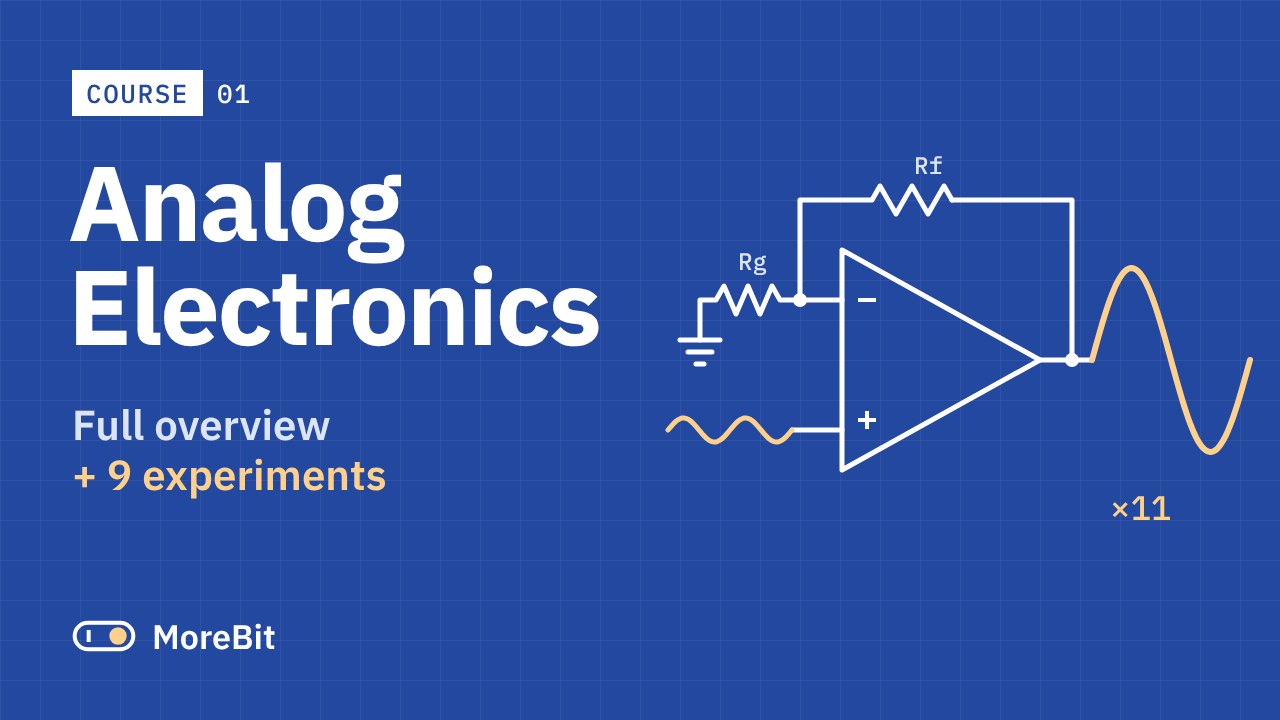
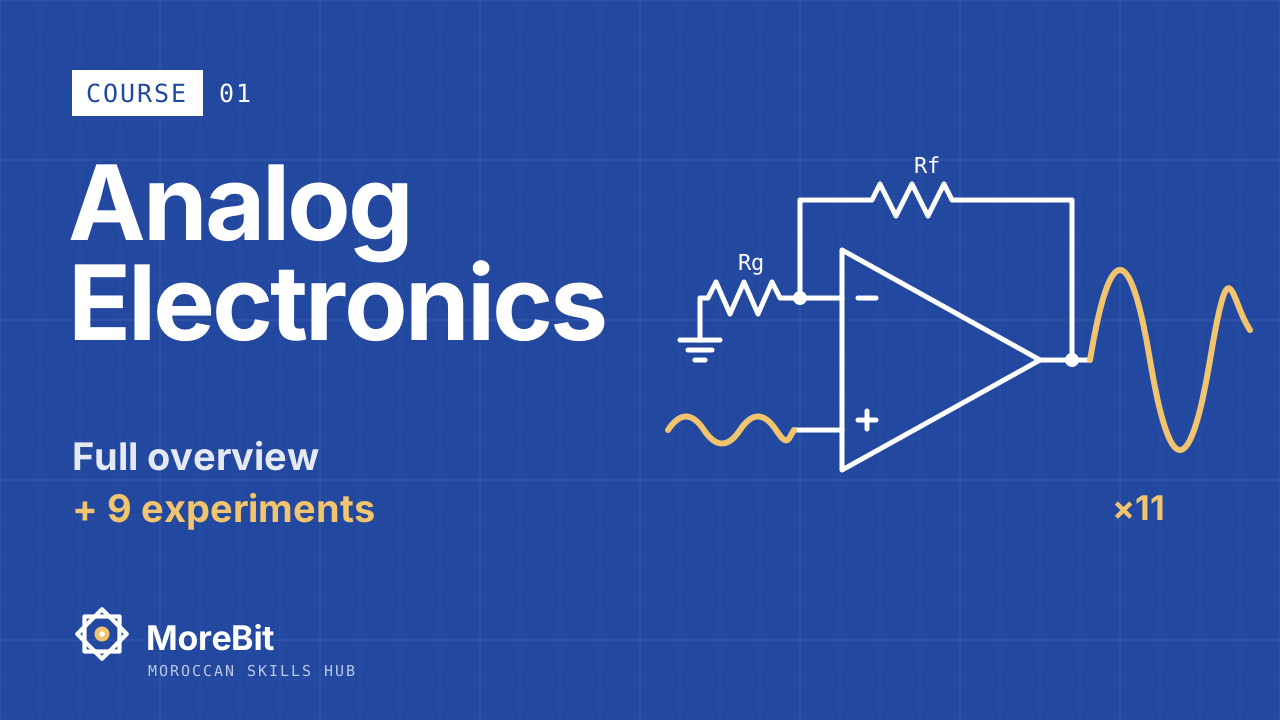
Add files via upload

diff --git a/assets/app.js b/assets/app.js
@@ -12,11 +12,11 @@ const PLAY=`<svg viewBox="0 0 24 24" fill="none" aria-hidden="true"><path d="M8 
 let VIDS=[],filter="all",density="comfortable",query="",openGroups=new Set();
 function bar(){const b=(k,label)=>`<button type="button" data-filter="${k}" aria-pressed="${filter===k}">${k==="all"?"":`<span class="dot ${k}"></span>`}${esc(label)}</button>`;return `<div class="bar" role="group" aria-label="Filter content">${b("all","All material")}${Object.keys(KINDS).map(k=>b(k,KINDS[k])).join("")}</div>`}
 function card(v){const media=v.thumbnail?`<img src="${esc(v.thumbnail)}" alt="" loading="lazy">`:USE_YOUTUBE_THUMBS&&v.youtubeId?`<img src="https://i.ytimg.com/vi/${esc(v.youtubeId)}/hqdefault.jpg" alt="" loading="lazy">`:`<span class="ph ${v.kind}">${PLAY}</span>`;
-return `<article class="card"><a class="thumb" href="${esc(watch(v))}" target="_blank" rel="noopener" aria-label="Watch ${esc(v.title)}">${media}<span class="dur">${esc(v.duration||"PLAY")}</span></a><div class="card-body"><div class="card-kicker">${esc(KINDS[v.kind]||"MoreBit lab")} · ${esc(fmt(v.date))}</div><h2><a href="${esc(watch(v))}" target="_blank" rel="noopener">${esc(v.title)}</a></h2>${v.description?`<p class="card-desc">${esc(v.description)}</p>`:""}<div class="meta"><span class="dot ${v.kind}"></span><span>${esc(KINDS[v.kind])}</span><span class="sp"></span>${res(v).length?`<a href="#r-${esc(v.slug)}">${res(v).length} resources ↗</a>`:""}</div></div></article>`}
-function contentPage(){const shown=VIDS.filter(v=>filter==="all"||v.kind===filter);return `<section class="hero"><div class="wrap hero-in"><div><div class="eyebrow">An independent mechatronics lab</div><h1>Make ideas<br>work in the <em>real world.</em></h1><p class="hero-copy">Electronics, mechanisms and code—explained through practical experiments, clear notes and files you can build on.</p><div class="hero-bottom"><a class="primary-link" href="#resources">Explore the resource library <span>↗</span></a><span class="hero-note">LEARN · BUILD · ITERATE</span></div></div><aside class="hero-side"><div class="big">${String(VIDS.length).padStart(2,"0")}</div><p>field notes, experiments and learning paths. Open-source spirit, hands-on first.</p></aside></div></section><section class="wrap section"><div class="section-head"><div><div class="eyebrow" style="color:var(--muted)">The collection</div><h2>Explore the lab</h2></div><p>Useful knowledge. No unnecessary noise.</p></div>${bar()}${shown.length?`<div class="grid">${shown.map(card).join("")}</div>`:`<p class="empty">No videos in this category yet.</p>`}</section>`}
-function group(v,i){const rs=res(v),isOpen=openGroups.has(v.slug);return `<section class="group" id="r-${esc(v.slug)}" data-open="${isOpen}" data-slug="${esc(v.slug)}"><div class="g-head"><div class="g-main"><button class="g-toggle" type="button" data-toggle="${esc(v.slug)}" aria-expanded="${isOpen}" aria-label="${isOpen?"Collapse":"Expand"} ${esc(v.title)}"><span class="chevron">›</span></button><div class="g-title-wrap"><div class="k"><span class="dot ${v.kind}"></span>${esc(KINDS[v.kind]||"Resources")} · <span>${esc(fmt(v.date))}</span></div><h2>${esc(v.title)}</h2><div class="g-meta"><span class="count">${String(rs.length).padStart(2,"0")} FILES</span><span>Course materials</span></div></div></div><div class="g-actions"><a href="${esc(watch(v))}" target="_blank" rel="noopener">Watch lesson ↗</a></div></div><ul class="files">${rs.map(r=>`<li><a href="${esc(r.href)}" target="_blank" rel="noopener"><span class="tag">${esc(tag(r))}</span><span><span class="fn">${esc(r.label)}</span><span class="fd">${esc(r.note||host(r.href))}</span></span><span class="go">Open ↗</span></a></li>`).join("")}</ul></section>`}
+return `<article class="card ${esc(v.kind)}"><a class="thumb" href="${esc(watch(v))}" target="_blank" rel="noopener" aria-label="Watch ${esc(v.title)}">${media}<span class="dur">${esc(v.duration||"PLAY")}</span></a><div class="card-body"><div class="card-kicker">${esc(KINDS[v.kind]||"MoreBit lab")} · ${esc(fmt(v.date))}</div><h2><a href="${esc(watch(v))}" target="_blank" rel="noopener">${esc(v.title)}</a></h2>${v.description?`<p class="card-desc">${esc(v.description)}</p>`:""}<div class="meta"><span class="dot ${v.kind}"></span><span>${esc(KINDS[v.kind])}</span><span class="sp"></span>${res(v).length?`<a href="#r-${esc(v.slug)}">${res(v).length} ${res(v).length===1?"resource":"resources"} ↗</a>`:""}</div></div></article>`}
+function contentPage(){const shown=VIDS.filter(v=>filter==="all"||v.kind===filter);return `<section class="hero"><div class="wrap hero-in"><div><div class="eyebrow">An independent Moroccan skills hub</div><h1>Make ideas<br>work in the <em>real world.</em></h1><p class="hero-copy">Electronics, mechanisms and code—explained through practical experiments, clear notes and files you can build on.</p><div class="hero-bottom"><a class="primary-link" href="#resources">Explore the resource library <span>↗</span></a><span class="hero-note">LEARN · BUILD · ITERATE</span></div></div><aside class="hero-side"><div class="big">${String(VIDS.length).padStart(2,"0")}</div><p>field notes, experiments and learning paths. Open-source spirit, hands-on first.</p></aside></div></section><section class="wrap section"><div class="section-head"><div><div class="eyebrow" style="color:var(--muted)">The collection</div><h2>Explore the lab</h2></div><p>Useful knowledge. No unnecessary noise.</p></div>${bar()}${shown.length?`<div class="grid">${shown.map(card).join("")}</div>`:`<p class="empty">No videos in this category yet.</p>`}</section>`}
+function group(v,i){const rs=res(v),isOpen=openGroups.has(v.slug);return `<section class="group ${esc(v.kind)}" id="r-${esc(v.slug)}" data-open="${isOpen}" data-slug="${esc(v.slug)}"><div class="g-head"><div class="g-main"><button class="g-toggle" type="button" data-toggle="${esc(v.slug)}" aria-expanded="${isOpen}" aria-label="${isOpen?"Collapse":"Expand"} ${esc(v.title)}"><span class="chevron">›</span></button><div class="g-title-wrap"><div class="k"><span class="dot ${v.kind}"></span>${esc(KINDS[v.kind]||"Resources")} · <span>${esc(fmt(v.date))}</span></div><h2>${esc(v.title)}</h2><div class="g-meta"><span class="count">${String(rs.length).padStart(2,"0")} FILES</span><span>${v.kind==="course"?"Course materials":"Project files"}</span></div></div></div><div class="g-actions"><a href="${esc(watch(v))}" target="_blank" rel="noopener">Watch lesson ↗</a></div></div><ul class="files">${rs.map(r=>`<li><a href="${esc(r.href)}" target="_blank" rel="noopener"><span class="tag">${esc(tag(r))}</span><span><span class="fn">${esc(r.label)}</span><span class="fd">${esc(r.note||host(r.href))}</span></span><span class="go">Open ↗</span></a></li>`).join("")}</ul></section>`}
 function resourcesPage(){const all=VIDS.filter(v=>res(v).length),filtered=all.filter(v=>(filter==="all"||v.kind===filter)&&`${v.title} ${KINDS[v.kind]} ${res(v).map(r=>`${r.label} ${r.note||""}`).join(" ")}`.toLowerCase().includes(query.toLowerCase()));const count=filtered.reduce((n,v)=>n+res(v).length,0);return `<section class="library-hero"><div class="wrap library-hero-in"><div><div class="eyebrow">The MoreBit workbench</div><h1>Tools for the<br><em>next experiment.</em></h1><p>Project files, simulation models and build notes—kept together, easy to scan, ready to use.</p></div><div class="library-stat"><strong>${String(count).padStart(2,"0")}</strong><span>resources across ${filtered.length} ${filtered.length===1?"project":"projects"}</span></div></div></section><section class="wrap"><div class="resource-tools"><label class="search-wrap"><input id="resource-search" type="search" value="${esc(query)}" placeholder="Search projects or files…" aria-label="Search projects or files"></label><div class="view-toggle" role="group" aria-label="Resource density"><button type="button" data-density="comfortable" aria-pressed="${density==="comfortable"}">Comfort</button><button type="button" data-density="compact" aria-pressed="${density==="compact"}">Compact</button></div><button class="tool-btn" type="button" data-expand="all">Expand all</button><button class="tool-btn" type="button" data-expand="none">Collapse all</button></div>${bar()}<div class="results-line"><span><strong>${filtered.length}</strong> ${filtered.length===1?"project":"projects"} · <strong>${count}</strong> ${count===1?"item":"items"}</span><span>Choose how much detail you want to see.</span></div><div class="res ${density==="compact"?"density-compact":""}">${filtered.length?filtered.map(group).join(""):`<p class="empty">No matching resources. Try another search or category.</p>`}</div></section>`}
-function route(){const h=location.hash.slice(1),onRes=h==="resources"||h.startsWith("r-");if(h.startsWith("r-")){filter="all";query="";const targetVideo=VIDS.find(v=>`r-${v.slug}`===h);if(targetVideo)openGroups.add(targetVideo.slug)}$("#app").innerHTML=onRes?resourcesPage():contentPage();document.querySelectorAll("[data-nav]").forEach(a=>(a.dataset.nav===(onRes?"resources":"content"))?a.setAttribute("aria-current","page"):a.removeAttribute("aria-current"));document.title=onRes?"Resources · MoreBit":"MoreBit — Learn, build, iterate";if(onRes){const search=$("#resource-search");if(search)search.addEventListener("input",e=>{query=e.target.value;renderResourcesPreservingFocus(e.target.selectionStart)})}const target=h.startsWith("r-")&&document.getElementById(h);if(target){target.scrollIntoView({block:"start"});target.classList.add("flash")}else window.scrollTo(0,0)}
+function route(){const h=location.hash.slice(1),onRes=h==="resources"||h.startsWith("r-");if(h.startsWith("r-")){filter="all";query="";const targetVideo=VIDS.find(v=>`r-${v.slug}`===h);if(targetVideo)openGroups.add(targetVideo.slug)}$("#app").innerHTML=onRes?resourcesPage():contentPage();document.querySelectorAll("[data-nav]").forEach(a=>(a.dataset.nav===(onRes?"resources":"content"))?a.setAttribute("aria-current","page"):a.removeAttribute("aria-current"));document.title=onRes?"Resources · MoreBit":"MoreBit — Moroccan Skills Hub";if(onRes){const search=$("#resource-search");if(search)search.addEventListener("input",e=>{query=e.target.value;renderResourcesPreservingFocus(e.target.selectionStart)})}const target=h.startsWith("r-")&&document.getElementById(h);if(target){target.scrollIntoView({block:"start"});target.classList.add("flash")}else window.scrollTo(0,0)}
 function renderResourcesPreservingFocus(pos){const el=$("#resource-search");const start=pos??el?.selectionStart??0;$("#app").innerHTML=resourcesPage();const next=$("#resource-search");next?.focus();next?.setSelectionRange(start,start)}
 $("#app").addEventListener("click",e=>{const b=e.target.closest("button");if(!b)return;if(b.dataset.filter){filter=b.dataset.filter;if(location.hash.slice(1)==="resources"||location.hash.startsWith("#r-"))renderResourcesPreservingFocus();else $("#app").innerHTML=contentPage();return}if(b.dataset.density){density=b.dataset.density;const current=$("#resource-search")?.value??query;query=current;renderResourcesPreservingFocus();return}if(b.dataset.toggle){const slug=b.dataset.toggle;openGroups.has(slug)?openGroups.delete(slug):openGroups.add(slug);const groupEl=b.closest(".group");groupEl.dataset.open=String(openGroups.has(slug));b.setAttribute("aria-expanded",String(openGroups.has(slug)));b.setAttribute("aria-label",`${openGroups.has(slug)?"Collapse":"Expand"} ${groupEl.querySelector("h2").textContent}`);b.innerHTML='<span class="chevron">›</span>';return}if(b.dataset.expand){const all=VIDS.filter(v=>res(v).length&&(filter==="all"||v.kind===filter)&&`${v.title} ${KINDS[v.kind]} ${res(v).map(r=>`${r.label} ${r.note||""}`).join(" ")}`.toLowerCase().includes(query.toLowerCase()));openGroups=new Set(b.dataset.expand==="all"?all.map(v=>v.slug):[]);renderResourcesPreservingFocus();return}});
 document.querySelectorAll("[data-link]").forEach(a=>{a.href=LINKS[a.dataset.link]||"#"});$("#yr").textContent=new Date().getFullYear();getVideos().then(v=>{VIDS=v;const first=VIDS.find(v=>res(v).length);if(first)openGroups.add(first.slug);window.addEventListener("hashchange",route);route()});

diff --git a/assets/style.css b/assets/style.css
@@ -165,3 +165,105 @@ footer{box-shadow:none}
 @media(prefers-reduced-motion:reduce){
  *,*::before,*::after{scroll-behavior:auto!important;transition:none!important;animation:none!important}
 }
+
+
+/* ───────── Refinement: Moroccan Skills Hub ─────────
+   Section colors · half-size cards · compact resources · calmer headings */
+:root{
+ --course:#2348A0;   /* Majorelle blue  — Courses */
+ --topic:#B5522F;    /* Terracotta      — General Topics */
+ --tips:#17785B;     /* Zellige green   — Tools & Tips */
+ --course-soft:#e8edf8;--topic-soft:#f8ebe5;--tips-soft:#e3f2ec;
+ --saffron:#F2C46D;--dark:#1B2420;
+}
+
+/* Brand */
+.brand .logo{width:30px;height:30px;color:var(--ink)}
+.brand span{display:flex;flex-direction:column;line-height:1.05}
+.brand small{font:500 .6rem var(--mono);letter-spacing:.08em;text-transform:uppercase;color:var(--muted);margin-top:3px}
+.top-in{height:64px}
+.foot-brand{display:inline-flex;align-items:center;gap:9px}
+.foot-brand img{border-radius:4px}
+
+/* Calmer heroes — the statement stays, the shouting goes */
+.hero-in{padding-block:clamp(34px,4.5vw,56px) clamp(30px,3.5vw,44px);gap:32px}
+.hero h1{font-size:clamp(1.9rem,3.6vw,3.1rem);line-height:1.06;letter-spacing:-.035em;margin:14px 0}
+.hero-copy{font-size:1rem}
+.hero-bottom{margin-top:22px}
+.primary-link{padding:10px 14px;font-size:.85rem}
+.hero-side .big{font-size:clamp(1.8rem,2.6vw,2.4rem)}
+.library-hero{padding-block:clamp(28px,3.5vw,44px)}
+.library-hero h1{font-size:clamp(1.8rem,3.2vw,2.7rem);line-height:1.06;letter-spacing:-.035em;margin:12px 0 10px}
+.library-stat strong{font-size:1.9rem}
+.section{padding-top:22px}
+.section-head{margin-bottom:6px}
+.section-head h2{font-size:clamp(1.25rem,1.9vw,1.6rem);letter-spacing:-.03em}
+
+/* Section colors */
+.dot.course{background:var(--course)}.dot.topic{background:var(--topic)}.dot.tips{background:var(--tips)}
+.bar{padding-block:18px 18px}
+.bar button{min-height:34px;font-size:.84rem}
+.bar button[data-filter=course][aria-pressed=true]{background:var(--course);border-color:var(--course)}
+.bar button[data-filter=topic][aria-pressed=true]{background:var(--topic);border-color:var(--topic)}
+.bar button[data-filter=tips][aria-pressed=true]{background:var(--tips);border-color:var(--tips)}
+.bar button[aria-pressed=true] .dot{background:#fff}
+
+/* Video cards — half the previous size */
+.grid{grid-template-columns:repeat(auto-fill,minmax(210px,1fr));gap:18px 14px;padding-bottom:56px}
+.card{border-top:3px solid var(--k,var(--line))}
+.card.course{--k:var(--course)}.card.topic{--k:var(--topic)}.card.tips{--k:var(--tips)}
+.card:hover{border-color:var(--line);border-top-color:var(--k);box-shadow:0 6px 18px -12px rgba(27,36,32,.35)}
+.dur{right:7px;bottom:7px;padding:3px 6px;font-size:.62rem;background:rgba(27,36,32,.82);color:#fff}
+.ph{background:var(--k,var(--dark-2));color:#fff}
+.ph svg{width:30px;height:30px}
+.card-body{padding:11px 12px 11px}
+.card-kicker{font-size:.6rem;color:var(--k,var(--muted))}
+.card h2{font-size:.93rem;line-height:1.3;margin:5px 0 9px;letter-spacing:-.01em}
+.card-desc{display:none}
+.meta{font-size:.7rem}
+
+/* Resources — tighter, colored by section */
+.resource-tools{padding:16px 0 4px;gap:8px}
+.search-wrap input,.tool-btn{height:36px}
+.view-toggle button{height:34px}
+.results-line{padding:2px 0 12px;font-size:.78rem}
+.group{border-left:3px solid var(--k,var(--line));padding-left:12px;scroll-margin-top:76px}
+.group.course{--k:var(--course)}.group.topic{--k:var(--topic)}.group.tips{--k:var(--tips)}
+.g-head{padding:12px 0}
+.group[data-open=false] .g-head{padding-block:10px}
+.g-toggle{width:26px;height:26px;font-size:1rem}
+.group[data-open=true] .g-toggle{background:var(--k);border-color:var(--k);color:#fff}
+.g-main{gap:10px}
+.g-head h2{font-size:.98rem}
+.g-head .k{font-size:.66rem;margin-bottom:2px}
+.g-meta{font-size:.7rem}
+.g-actions a{font-size:.76rem;color:var(--k,var(--muted))}
+.files{margin:0 0 14px 36px;grid-template-columns:repeat(auto-fill,minmax(230px,1fr));gap:6px}
+.files a{min-height:46px;grid-template-columns:40px minmax(0,1fr) auto;gap:9px;padding:7px 10px}
+.files a:hover{border-color:var(--k)}
+.tag{font-size:.58rem;padding:4px 1px;color:var(--k);border-color:currentColor;background:#fff}
+.group.course .files a:hover .tag{background:var(--course-soft)}
+.group.topic .files a:hover .tag{background:var(--topic-soft)}
+.group.tips .files a:hover .tag{background:var(--tips-soft)}
+.fn{font-size:.82rem}
+.fd{font-size:.7rem;margin-top:1px}
+.go{font-size:.72rem}
+.density-compact .files{grid-template-columns:repeat(auto-fill,minmax(170px,1fr));gap:5px}
+.density-compact .files a{min-height:36px;grid-template-columns:34px minmax(0,1fr);padding:5px 8px}
+.density-compact .fn{font-size:.76rem}
+.density-compact .g-head{padding-block:9px}
+.density-compact .g-toggle{width:24px;height:24px}
+
+@media(max-width:850px){.files,.density-compact .files{grid-template-columns:repeat(auto-fill,minmax(200px,1fr))}}
+@media(max-width:580px){
+ .top-in{height:58px}.brand small{display:none}
+ .hero h1{font-size:clamp(1.7rem,8vw,2.2rem)}
+ .grid{grid-template-columns:repeat(2,minmax(0,1fr));gap:12px 10px}
+ .card{display:block}
+ .thumb{height:auto;aspect-ratio:16/9;border-right:0;border-bottom:1px solid var(--line)}
+ .card-body{padding:9px 10px}.card h2{font-size:.85rem;margin:4px 0 7px}
+ .meta .sp,.meta>span:nth-child(2){display:none}
+ .group{padding-left:10px}.g-actions{padding-left:36px}
+ .files,.density-compact .files{grid-template-columns:1fr;margin-left:0}
+ .section-head{display:block}.section-head p{display:none}
+}

diff --git a/index.html b/index.html
@@ -3,9 +3,9 @@
 <head>
 <meta charset="utf-8">
 <meta name="viewport" content="width=device-width, initial-scale=1, viewport-fit=cover">
-<title>MoreBit — Learn, build, iterate</title>
-<meta name="description" content="MoreBit is a practical mechatronics lab for electronics, mechanisms and code—with experiments, notes and project resources.">
-<meta name="theme-color" content="#172320">
+<title>MoreBit — Moroccan Skills Hub</title>
+<meta name="description" content="MoreBit is an independent Moroccan skills hub for technology: electronics, mechanisms and code, with experiments, notes and project resources.">
+<meta name="theme-color" content="#1B2420">
 <link rel="icon" href="favicon.svg" type="image/svg+xml">
 <link rel="preconnect" href="https://fonts.googleapis.com">
 <link rel="preconnect" href="https://fonts.gstatic.com" crossorigin>
@@ -16,12 +16,13 @@
 <header class="top">
   <div class="wrap top-in">
     <a class="brand" href="#content" aria-label="MoreBit, content">
-      <svg width="36" height="18" viewBox="0 0 96 48" fill="none" aria-hidden="true">
-        <rect x="4" y="4" width="88" height="40" rx="20" stroke="currentColor" stroke-width="6"/>
-        <circle cx="69" cy="24" r="13" fill="#2348A0"/>
-        <path d="M25 15V33" stroke="currentColor" stroke-width="6"/>
+      <svg class="logo" viewBox="0 0 48 48" fill="none" aria-hidden="true">
+        <path d="M10 10h28v28H10z" stroke="currentColor" stroke-width="3.2" stroke-linejoin="round"/>
+        <path d="M24 4.2 43.8 24 24 43.8 4.2 24z" stroke="currentColor" stroke-width="3.2" stroke-linejoin="round"/>
+        <circle cx="24" cy="24" r="6" fill="#2348A0"/>
+        <circle cx="24" cy="24" r="2.2" fill="#F2C46D"/>
       </svg>
-      <span>MoreBit</span>
+      <span>MoreBit<small>Moroccan Skills Hub</small></span>
     </a>
     <nav class="nav" aria-label="Main">
       <a href="#content" data-nav="content">Content</a>
@@ -44,7 +45,7 @@
 
 <footer class="foot">
   <div class="wrap foot-in">
-    <span>© <span id="yr"></span> MoreBit</span>
+    <span class="foot-brand"><img src="favicon.svg" alt="" width="20" height="20">© <span id="yr"></span> MoreBit · Independent Moroccan Skills Hub</span>
     <nav aria-label="Elsewhere"><a data-link="youtube" href="#" target="_blank" rel="noopener">YouTube</a><a data-link="github" href="#" target="_blank" rel="noopener">GitHub</a></nav>
   </div>
 </footer>

diff --git a/content.js b/content.js
@@ -1,4 +1,4 @@
-/* MoreBit — site content. This is the only file you edit.
+/* MoreBit — Independent Moroccan Skills Hub — site content. This is the only file you edit.
 
    kind: "course" (Courses), "topic" (General Topics) or "tips" (Tools & Tips)
    youtubeId: the part after watch?v= in the YouTube URL ("" = link to the channel)
@@ -30,6 +30,28 @@ const VIDEOS = [
       { label: "README.md", href: "https://github.com/morebit/analog-electronics-101#readme", note: "Course notes: theory and the 9 experiments" },
       { label: "bom.csv", href: "https://github.com/morebit/analog-electronics-101/blob/main/bom.csv", note: "Parts list" },
       { label: "spice", href: "https://github.com/morebit/analog-electronics-101/tree/main/spice", note: "LTspice simulations for experiments 2, 3, 4, 6 and 8" }
+    ]
+  },
+
+  /* ── EXAMPLES: one per section, to show each section's color. Replace or delete. ── */
+  {
+    slug: "how-chips-read-the-world", kind: "topic",
+    title: "How Chips Read the World: Sensors, ADCs and a Little Math",
+    description: "Example entry — General Topics.",
+    date: "2026-10-10", duration: "18:40", youtubeId: "",
+    thumbnail: "assets/thumbs/how-chips-read-the-world.png",
+    resources: [
+      { label: "adc-notes.pdf", href: "https://github.com/morebit", note: "Example resource" }
+    ]
+  },
+  {
+    slug: "multimeter-basics", kind: "tips",
+    title: "Multimeter Basics: 5 Measurements You'll Use Daily",
+    description: "Example entry — Tools & Tips.",
+    date: "2026-10-06", duration: "9:15", youtubeId: "",
+    thumbnail: "assets/thumbs/multimeter-basics.png",
+    resources: [
+      { label: "multimeter-cheatsheet.pdf", href: "https://github.com/morebit", note: "Example resource" }
     ]
   }
 ];

diff --git a/README.md b/README.md
@@ -1,11 +1,11 @@
 # MoreBit
 
-A practical mechatronics learning lab: courses, experiments, tools and the files that go with each lesson.
+An independent Moroccan skills hub focused on technology: courses, experiments, tools and the files that go with each lesson.
 
 ## Design principles
 
 - **Learn by building:** clear video-led lessons and practical project resources.
-- **A confident lab identity:** deep workshop green, signal-lime accents, technical typography and editorial layouts.
+- **A clear identity:** an eight-point Moroccan star (khatam) with a circuit node at its heart, and one color per section — Majorelle blue for Courses, terracotta for General Topics, zellige green for Tools & Tips.
 - **Resources that stay manageable:** search, category filters, collapsible project groups, and Comfortable / Compact density modes.
 - **Simple to maintain:** plain HTML, CSS and JavaScript. No build step, framework or dependencies.
 - **Accessible and responsive:** keyboard focus styles, semantic controls, mobile layouts and reduced-motion support.
@@ -17,7 +17,9 @@ index.html        Header and footer
 content.js        Links, categories, videos and resource links — edit this file
 assets/style.css  Design system and responsive layouts
 assets/app.js     Content and Resources pages, filtering and resource controls
-favicon.svg       MoreBit mark
+favicon.svg       MoreBit mark (app icon)
+assets/logo.svg   MoreBit mark (light backgrounds)
+assets/thumbs/    Video thumbnails (1280×720)
 .nojekyll         Lets GitHub Pages serve files as-is
 ```
 
@@ -56,6 +58,10 @@ Add an entry near the top of `VIDEOS` in `content.js`:
 ```
 
 A file name ending in `.pdf`, `.step`, `.stl`, `.slx`, and similar shows its type automatically. Videos without `resources` appear on the Content page, but not in the Resources library.
+
+## Thumbnails
+
+Use 1280×720 images. Keep the section color as the background (Courses `#2348A0`, General Topics `#B5522F`, Tools & Tips `#17785B`), the label and number top left, and the MoreBit mark bottom left. The two `EXAMPLE` entries in `content.js` show the General Topics and Tools & Tips styles — replace or delete them.
 
 ## Resource library controls
 
